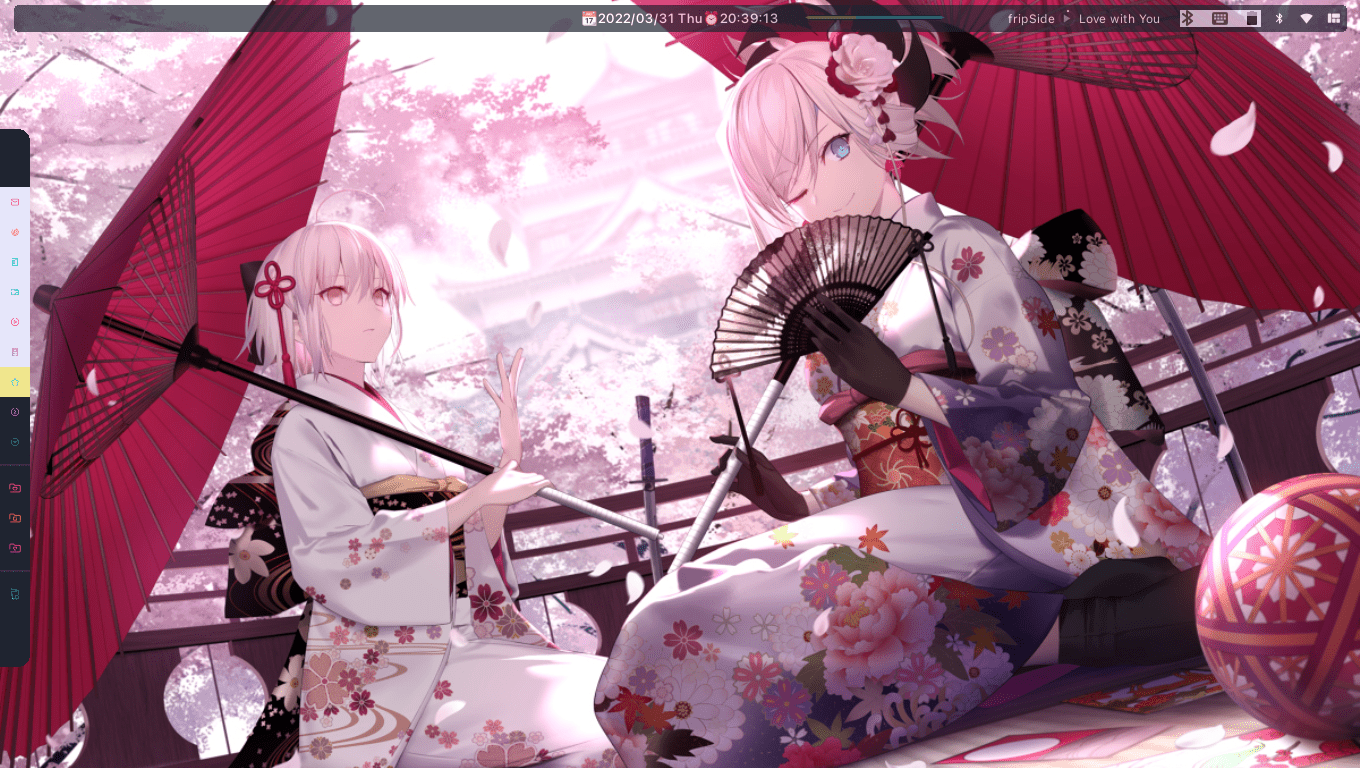
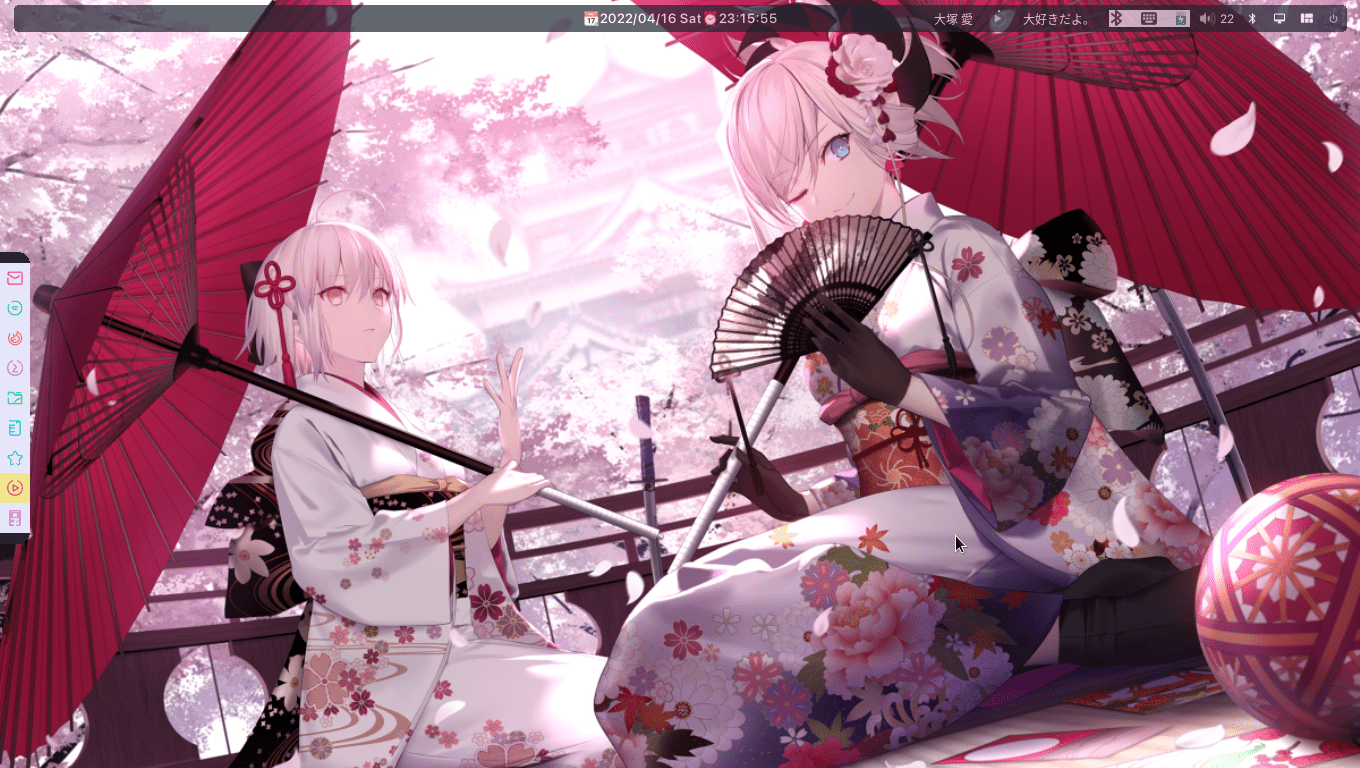
Add logout-menu-widget, Update .zshrc, .vimrc, init.vim, README.md

diff --git a/README.md b/README.md
@@ -8,12 +8,14 @@
 
 # Credits [WillPower3309/awesome-dotfiles](https://github.com/WillPower3309/awesome-dotfiles).
 
-## Just do some change to meet my own needs.
-## Wallpaper is from [桜](https://www.pixiv.net/en/artworks/80518034).
+> Just do some change to meet my own needs.
+
+> Wallpaper is from [桜](https://www.pixiv.net/en/artworks/80518034).
+
 ---
 
-My Awesomewm dotfiles used in archlinux. 
-- Also I put my .zshrc, .vimrc, .Xresources and ranger's setting here. If you need, you can use those. 
+## My Awesomewm dotfiles used in archlinux. 
+- Also I put my `.zshrc`, `.vimrc`, `init.vim`, `.Xresources` and `ranger`'s setting here. If you need, you can use those. 
 - ranger's setting can see [ArchWiki-ranger](https://wiki.archlinux.org/title/ranger#File_association) and [ranger's github wiki Image-Previews](https://github.com/ranger/ranger/wiki/Image-Previews) and [ranger Drag-and-Drop](https://github.com/ranger/ranger/wiki/Drag-and-Drop) as reference. If you are using archlinux you might have to replace dragon with [dragon-drop](https://aur.archlinux.org/packages/dragon-drop) because they renamed it. Also in wiki, `map <C-d> shell dragon -a -x %p --and-exit` can't work for me, so I use `map <A-d> shell dragon -a -x %p --and-exit` instead. `<A-d>` means `<Alt-d>`. And in the wiki, method 2 can't work for me.
 - However, I **DO NOT** promise that those must work in your computer. 
 - Use the part that you need, which is a good choice, I thought.
@@ -24,14 +26,12 @@ My Awesomewm dotfiles used in archlinux.
 
 ![](/screenshot/showdesktop.png)
 
-> The line next to the clock is volume bar, too. I simply make some change of volume-adjust.lua which is in the "components" folder to make it, which is called volume-adjust.lua. Also, the volume-adjust.lua made by WillPower3309 is not deleted, but changed the name, now called "volume-adjust2.lua". The bar will not disappear, which will let you always know the volume all the times. 
-> Now top panel has changed the stytle !
 
 ![](/screenshot/showurxvt.png)
 > Here is my terminal, urxvt. Use **.Xresources** to set.
 
 ![](/screenshot/cmus.png)
-> Here is my music player, cmus. You can check the file **autosave** to see my cmus's config.
+> Here is my music player, cmus. You can check the file `autosave` to see my cmus's config.
 
 ![](/screenshot/rofi.png)
 > This is my rofi' s look. I change the color of default.
@@ -46,6 +46,18 @@ My Awesomewm dotfiles used in archlinux.
 ![](/screenshot/volume-widget.png)
 Also, I have changed the left-panel for my habit changed.
  
+## 2022/04/16 Added Logout Menu Widget. From [Logout Menu Widget](https://github.com/streetturtle/awesome-wm-widgets/tree/master/logout-menu-widget).
+
+![](/screenshot/logout-menu-widget.png)
+Also, I now use [papercolor-theme](https://github.com/NLKNguyen/papercolor-theme) for vim and neovim. I also use [ohmyzsh-battery.plugin.zsh](https://github.com/ohmyzsh/ohmyzsh/blob/master/plugins/battery/battery.plugin.zsh) to fix my terminal zsh prompt.
+
+![](/screenshot/zsh-prompt.png)
+I change the default icon when charging. 
+
+![](/screenshot/man.png)
+I have also changed the pager for `man`. Now I use `vim` as pager. You can check my `.zshrc` for the setting. More details or tutorial from [Using Vim as $MANPAGER](https://zameermanji.com/blog/2012/12/30/using-vim-as-manpager/), [A faster Vim, for a better manpager](https://kgrz.io/faster-vim-better-manpager.html), [5 cool terminal pagers in Fedora](https://fedoramagazine.org/5-cool-terminal-pagers-in-fedora/). If you need, take a look.
+
+---
 
 ### I also add more volume bar icon when the volume is over 80%, 60%, 40%, 20%, 0% and 0%. And I use the icon from [Flaticon](https://www.flaticon.com/).
 - If you don't like that, you can change it by yourself.

diff --git a/awesome/logout-menu-widget/README.md b/awesome/logout-menu-widget/README.md
@@ -1,0 +1,45 @@
+# Logout Menu Widget
+
+This widget shows a menu with options to log out from the current session, lock, reboot, suspend and power off the computer, similar to [logout-popup-widget](https://github.com/streetturtle/awesome-wm-widgets/tree/master/logout-popup-widget):
+
+![demo](./logout-menu.gif)
+
+## Installation
+
+Clone this repo (if not cloned yet) under **./.config/awesome/**
+
+```bash
+cd ./.config/awesome/
+git clone https://github.com/streetturtle/awesome-wm-widgets
+```
+Then add the widget to the wibar:
+
+```lua
+local logout_menu_widget = require("awesome-wm-widgets.logout-menu-widget.logout-menu")
+
+s.mytasklist, -- Middle widget
+    { -- Right widgets
+        layout = wibox.layout.fixed.horizontal,
+        ...
+        -- default
+        logout_menu_widget(),
+        -- custom
+        logout_menu_widget{
+            font = 'Play 14',
+            onlock = function() awful.spawn.with_shell('i3lock-fancy') end
+        }
+        ...
+```
+
+## Customization
+
+It is possible to customize the widget by providing a table with all or some of the following config parameters:
+
+| Name | Default | Description |
+|---|---|---|
+| `font` | `beautiful.font` | Font of the menu items |
+| `onlogout` | `function() awesome.quit() end` | Function which is called when the logout item is clicked |
+| `onlock` | `function() awful.spawn.with_shell("i3lock") end` | Function which is called when the lock item is clicked |
+| `onreboot` | `function() awful.spawn.with_shell("reboot") end` | Function which is called when the reboot item is clicked |
+| `onsuspend` | `function() awful.spawn.with_shell("systemctl suspend") end` | Function which is called when the suspend item is clicked |
+| `onpoweroff` | `function() awful.spawn.with_shell("shutdown now") end` | Function which is called when the poweroff item is clicked |
